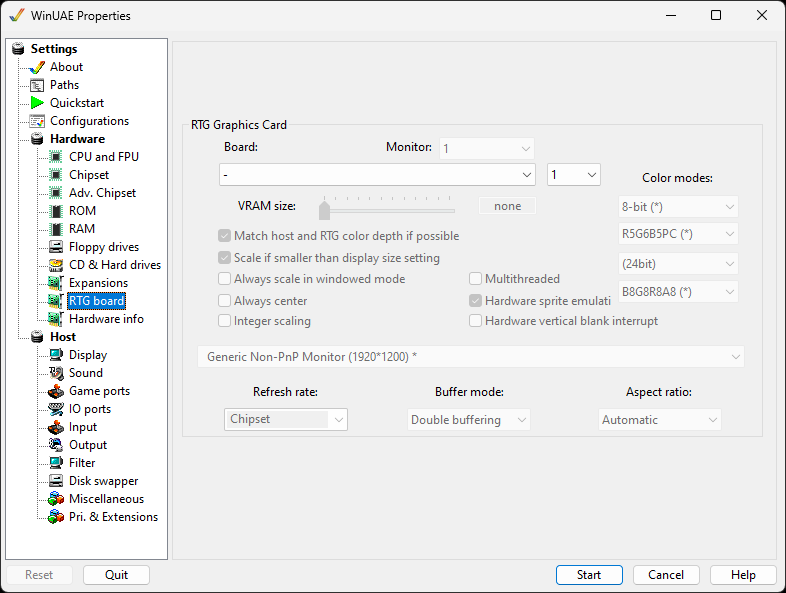
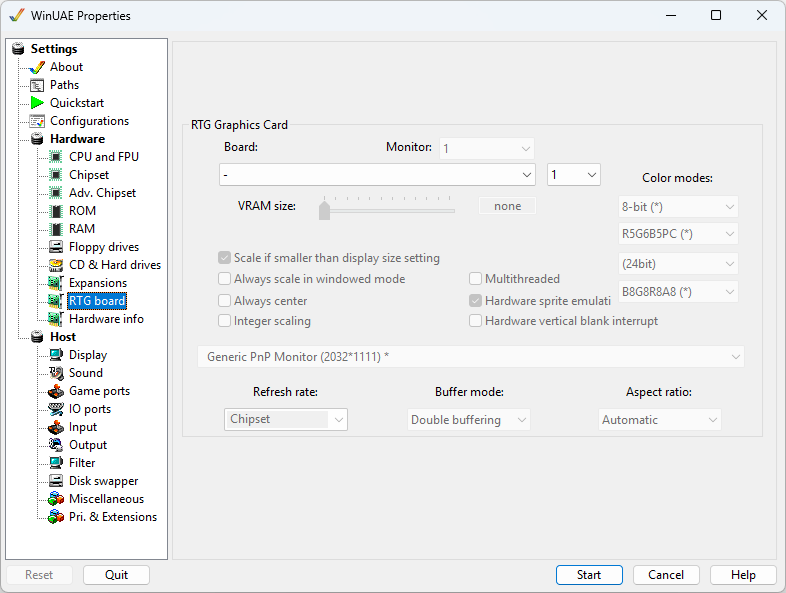
Updates for WinUAE 6.0

diff --git a/gui/chipset.htm b/gui/chipset.htm
@@ -13,27 +13,31 @@
     "WinUAE - Chipset">
     <h1>Chipset</h1>
     <ul>
-      <li><strong>OCS</strong>: This was the first or original
-      chipset, used in the Amiga 1000.</li>
+      <li><strong>A1000 (NoEHB)</strong>: First Amiga A1000 with
+      OCS chipset but no Extra Half Bright mode.</li>
+      <li><strong>A1000:</strong> A1000 with OCS chipset.</li>
+      <li><strong>OCS Agnus + OCS Denise</strong>: This was the
+      first or original chipset, used in the Amiga : Agnus 512M,
+      Denise (32 color graphics, HAM mode).</li>
+      <li><strong>OCS Agnus + ECS Denise</strong>: This is mixed
+      chipset, used in the Amiga : Agnus 512M/1M, ECS Denise (Prod
+      VGA, SuperHiRes modes)</li>
       <li>
-        <strong>ECS Agnus</strong> Uses enhanced Fat <a href=
-        "../background/custchips.htm">Agnus</a> which supplies 1MB
-        of Chip RAM.
+        <strong>ECS Agnus + OCS Denise:</strong> Uses enhanced Fat
+        <a href="../background/custchips.htm">Agnus</a> which
+        supplies 1MB of Chip RAM and original Denise graphics chip.
       </li>
       <li><strong>Full ECS</strong>: This was the next generation
       of Amiga chipsets. Compared to OCS, they provided higher
       resolutions, but no expansion of the color palette.</li>
       <li><strong>AGA</strong>: This is the latest and most
-      advanced chipset.<br>
+      advanced chipset with 256 colors, HAM-8 mode (262K
+      colors).<br>
       <strong>NOTE:</strong> AGA modes do not work with 8-bit color
-      depth screen modes!</li>
-      <li>
-        <strong>ECS Denise</strong> Use the new ECS display modes
-        with <a href="../background/custchips.htm">Denise</a> Chip.
-      </li>
+      depth screen modes</li>
     </ul>
-    <p><strong>NTSC</strong> Enables US NTSC screen mode (default
-    is PAL).<br>
+    <p><strong>NTSC</strong> Enables US NTSC screen mode (200
+    lines). The default is PAL (256 lines).<br>
     <br>
     <strong>Cycle-exact</strong> Enables cycle exact chipsets as
     the real hardware for some games.<br>

diff --git a/gui/rtgboard.htm b/gui/rtgboard.htm
@@ -19,8 +19,6 @@
     such as the Picasso96 RTG so that you can use your PC's
     graphics card rather than the custom chips for extra speed.
     Upto 512 MB<br>
-    <strong>Match host and RTG color depth if possible</strong>
-    Color space conversion enabled.<br>
     <strong>Scale if smaller than display size setting</strong>
     Rescale display if current window is smaller than the display
     size setting given<br>
